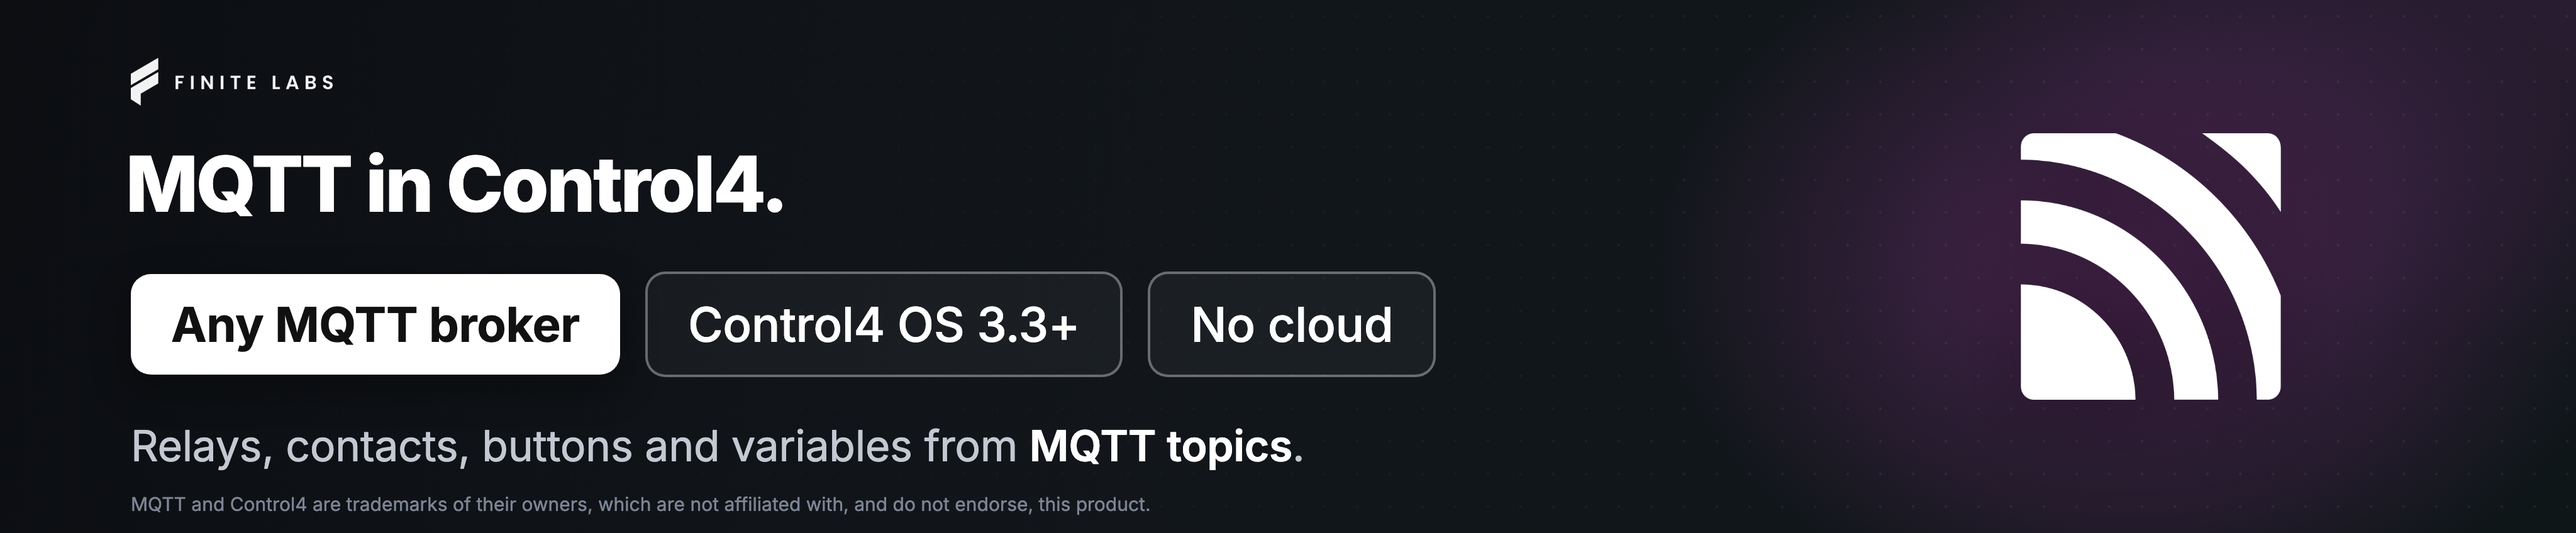
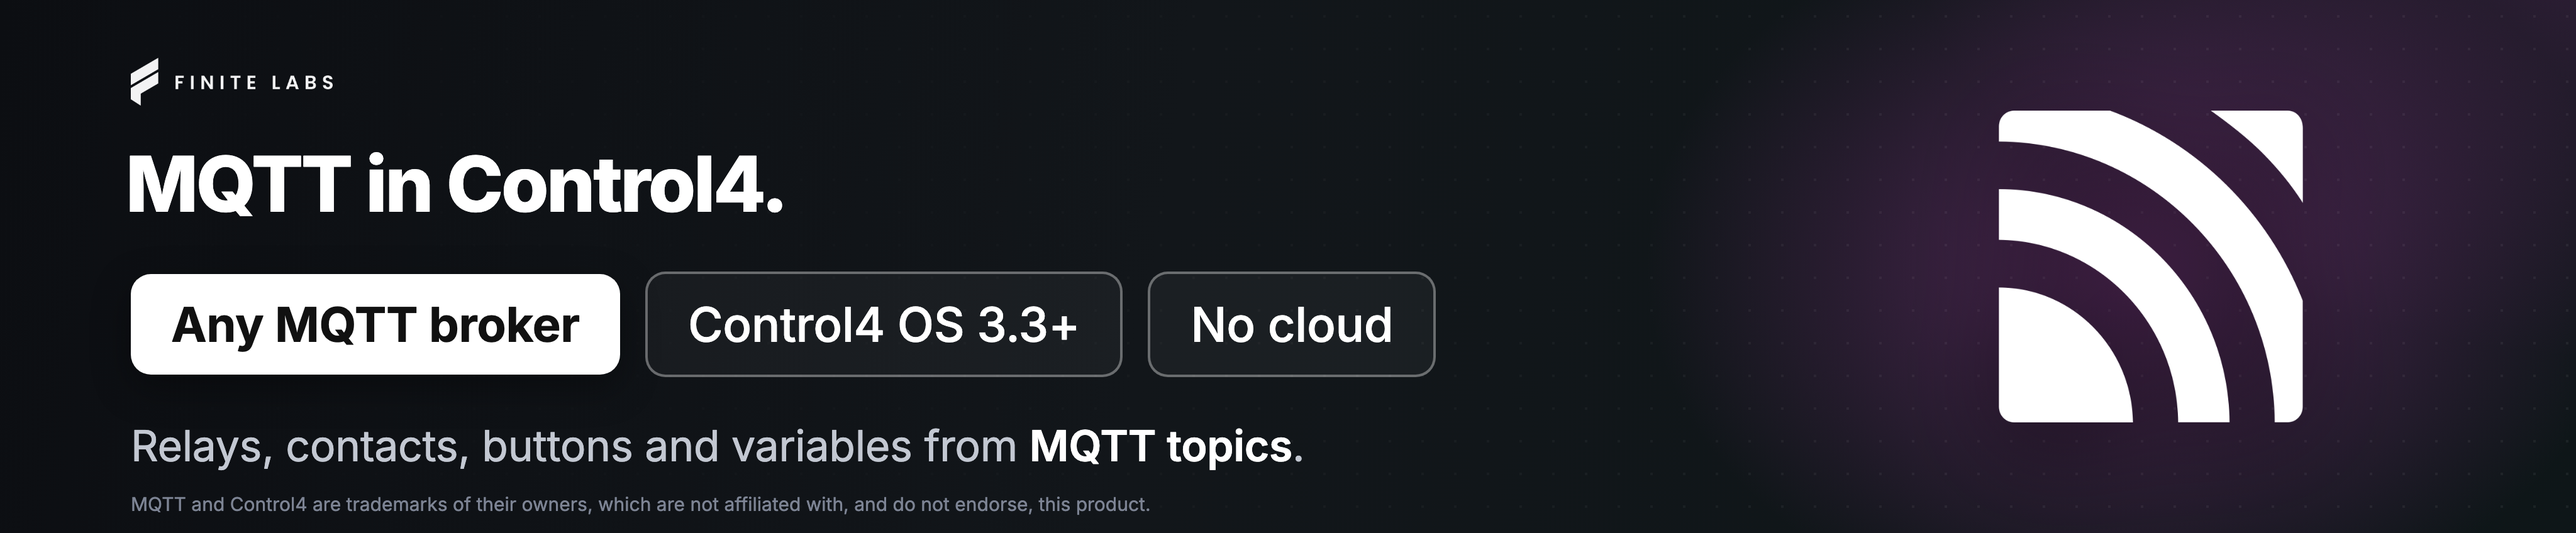
chore: the spotlight and launch-post marks are sized up to match across the drivers

Changed region(s): [[0.75, 0.184, 0.9062, 0.7972]]

diff --git a/resources/drivercentral/banners/spotlight-4096x848.html b/resources/drivercentral/banners/spotlight-4096x848.html
@@ -20,7 +20,7 @@
   .chip.line { color: #fff; border: 2px solid rgba(255,255,255,0.35); background: rgba(255,255,255,0.04); font-weight: 500; }
   .sub { position: absolute; left: 104px; top: 334px; color: #c3c8d2; font-size: 34px; font-weight: 400; letter-spacing: -0.005em; white-space: nowrap; }
   .sub em { font-style: normal; color: #fff; font-weight: 600; }
-  .mark { position: absolute; left: 1606px; top: 106px; width: 208px; height: 212px; object-fit: contain; filter: drop-shadow(0 18px 40px rgba(0,0,0,0.45)); }
+  .mark { position: absolute; left: 1589px; top: 88px; width: 242px; height: 248px; object-fit: contain; filter: drop-shadow(0 18px 40px rgba(0,0,0,0.45)); }
   .note { position: absolute; left: 104px; bottom: 14px; color: #7d8494; font-size: 15px; letter-spacing: 0; white-space: nowrap; }
 </style></head>
 <body>

diff --git a/resources/drivercentral/banners/launch-post-2400x1200.html b/resources/drivercentral/banners/launch-post-2400x1200.html
@@ -21,7 +21,7 @@
   .chip.line { color: #fff; border: 1.5px solid rgba(255,255,255,0.35); background: rgba(255,255,255,0.04); font-weight: 500; }
   .sub { margin: 32px 0 0 2px; color: #c3c8d2; font-size: 24px; line-height: 1.4; font-weight: 400; letter-spacing: -0.005em; }
   .sub em { font-style: normal; color: #fff; font-weight: 600; }
-  .mark { position: absolute; left: 851px; top: 215px; width: 166px; height: 170px; object-fit: contain; filter: drop-shadow(0 14px 32px rgba(0,0,0,0.45)); }
+  .mark { position: absolute; left: 797px; top: 163px; width: 267px; height: 273px; object-fit: contain; filter: drop-shadow(0 14px 32px rgba(0,0,0,0.45)); }
   .note { position: absolute; left: 74px; right: 74px; bottom: 20px; color: #7d8494; font-size: 13px; line-height: 1.35; }
 </style></head>
 <body>
